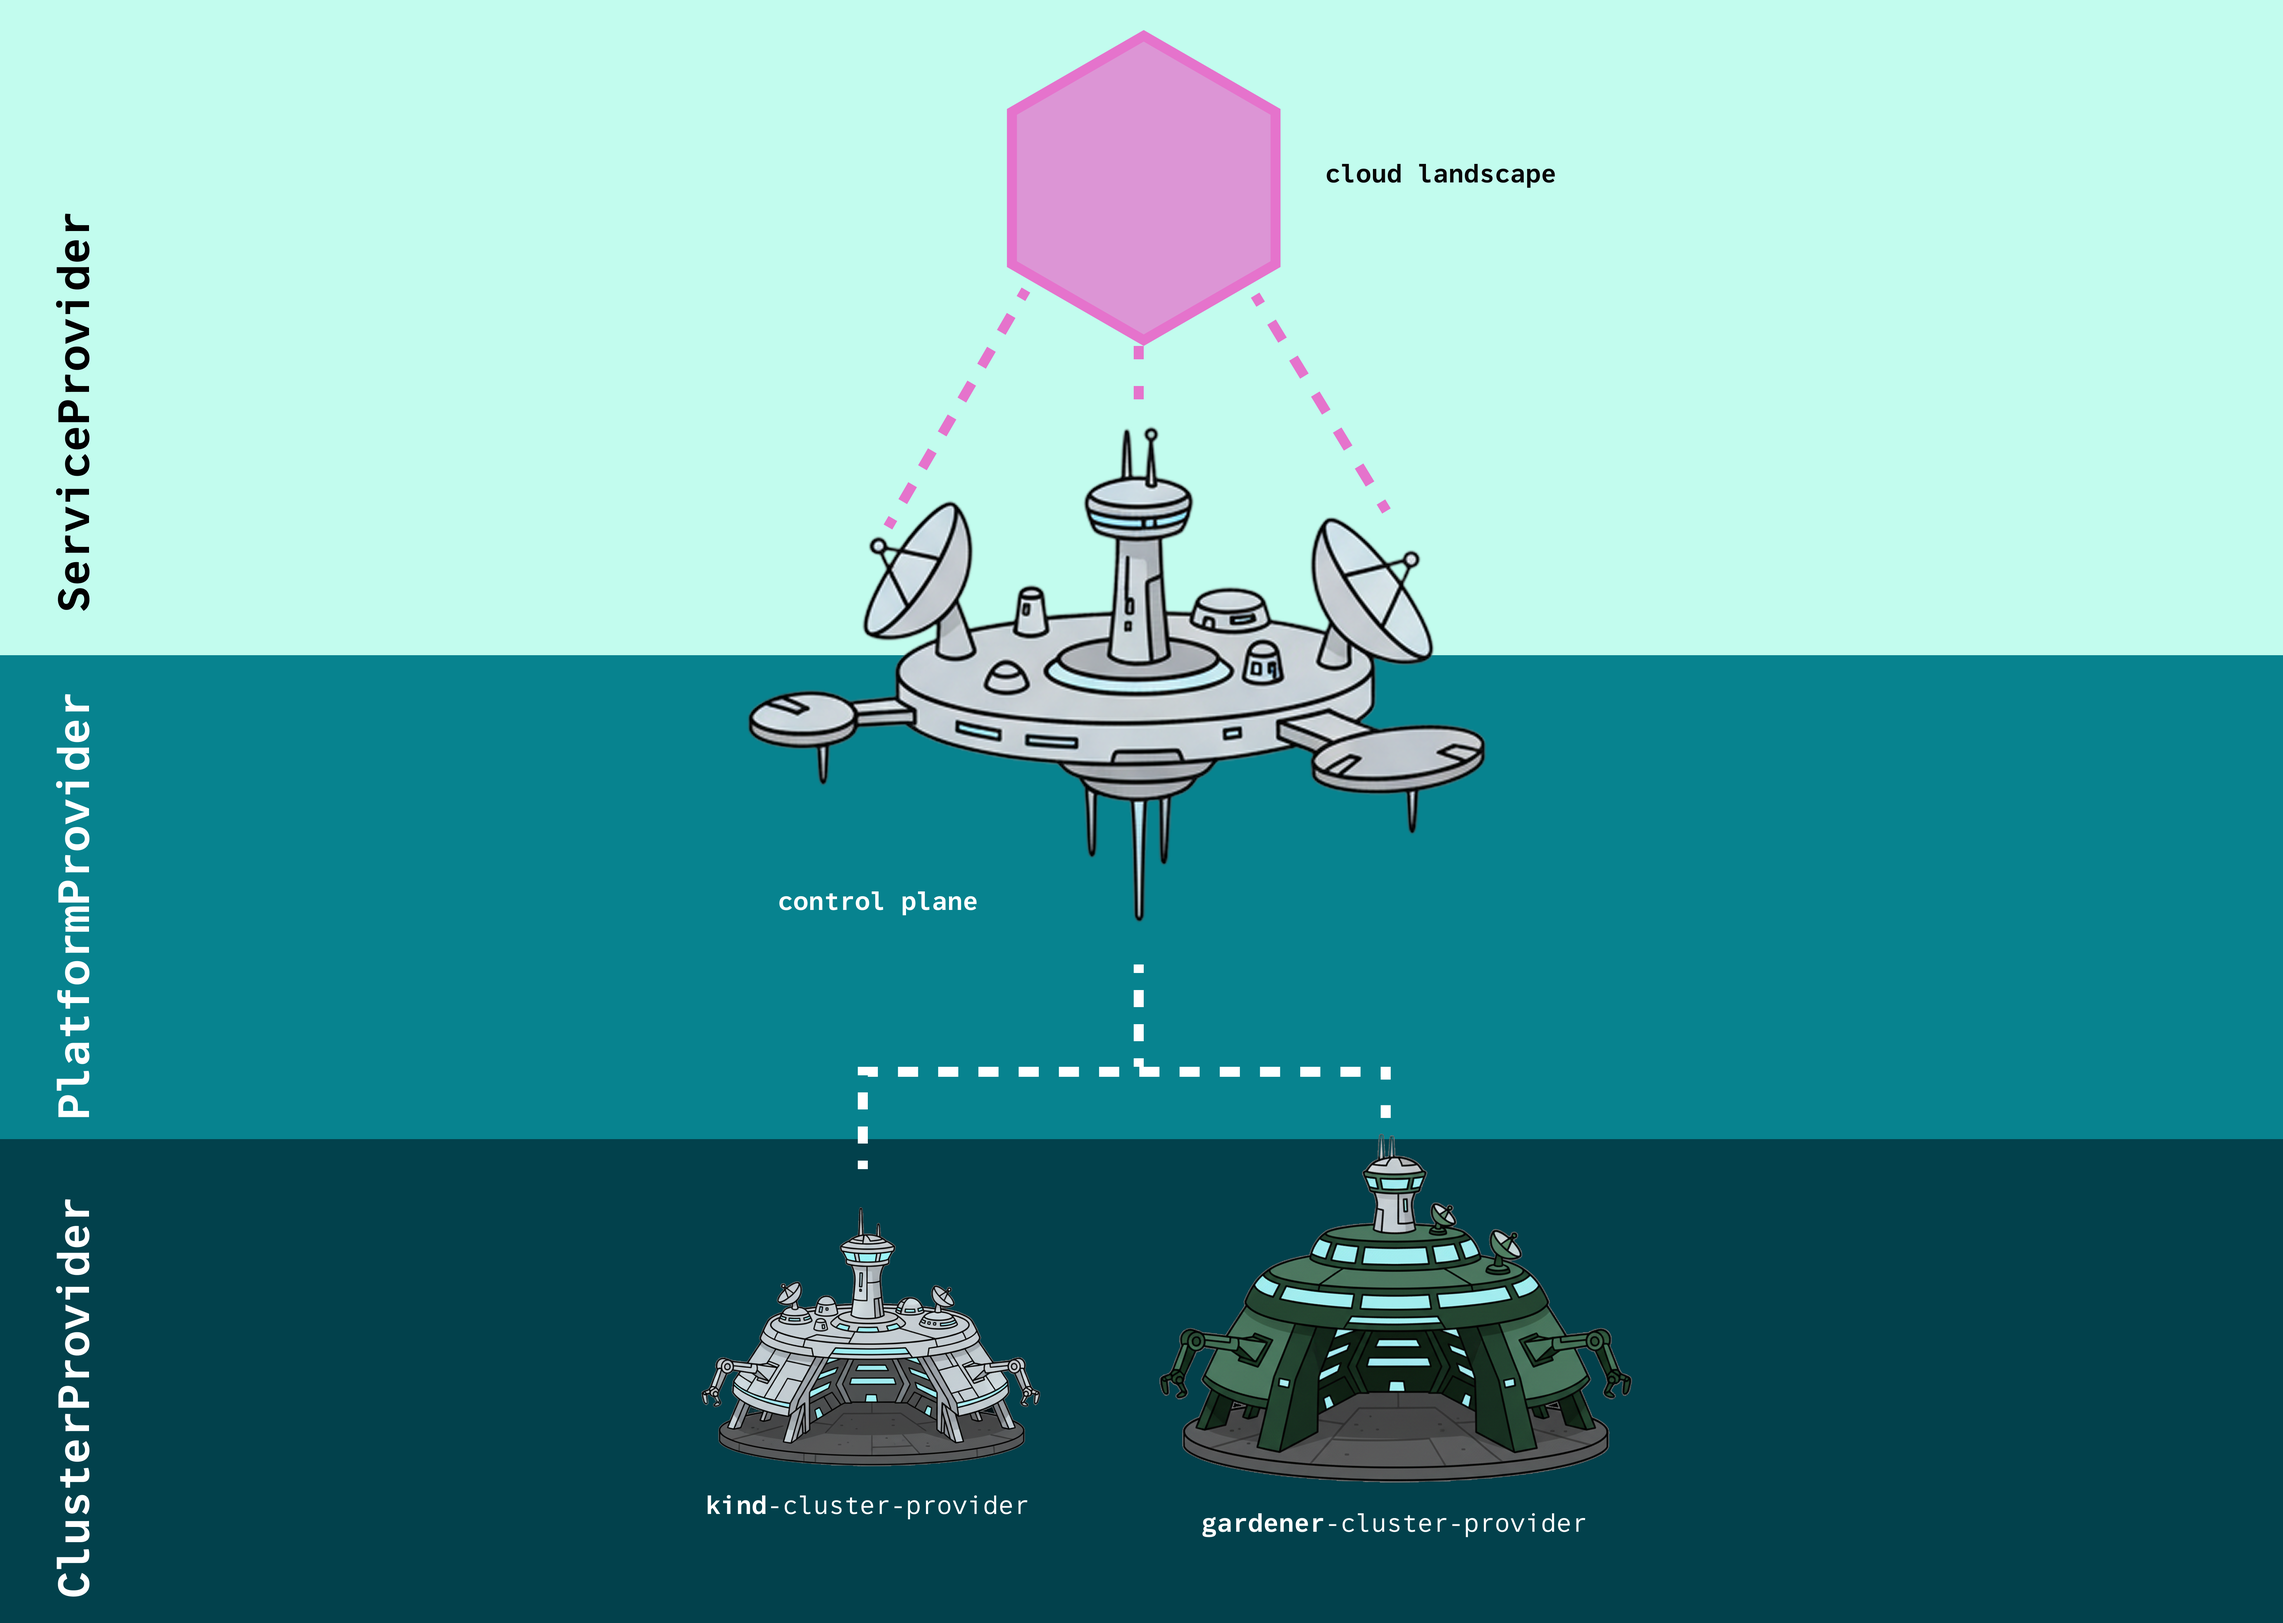
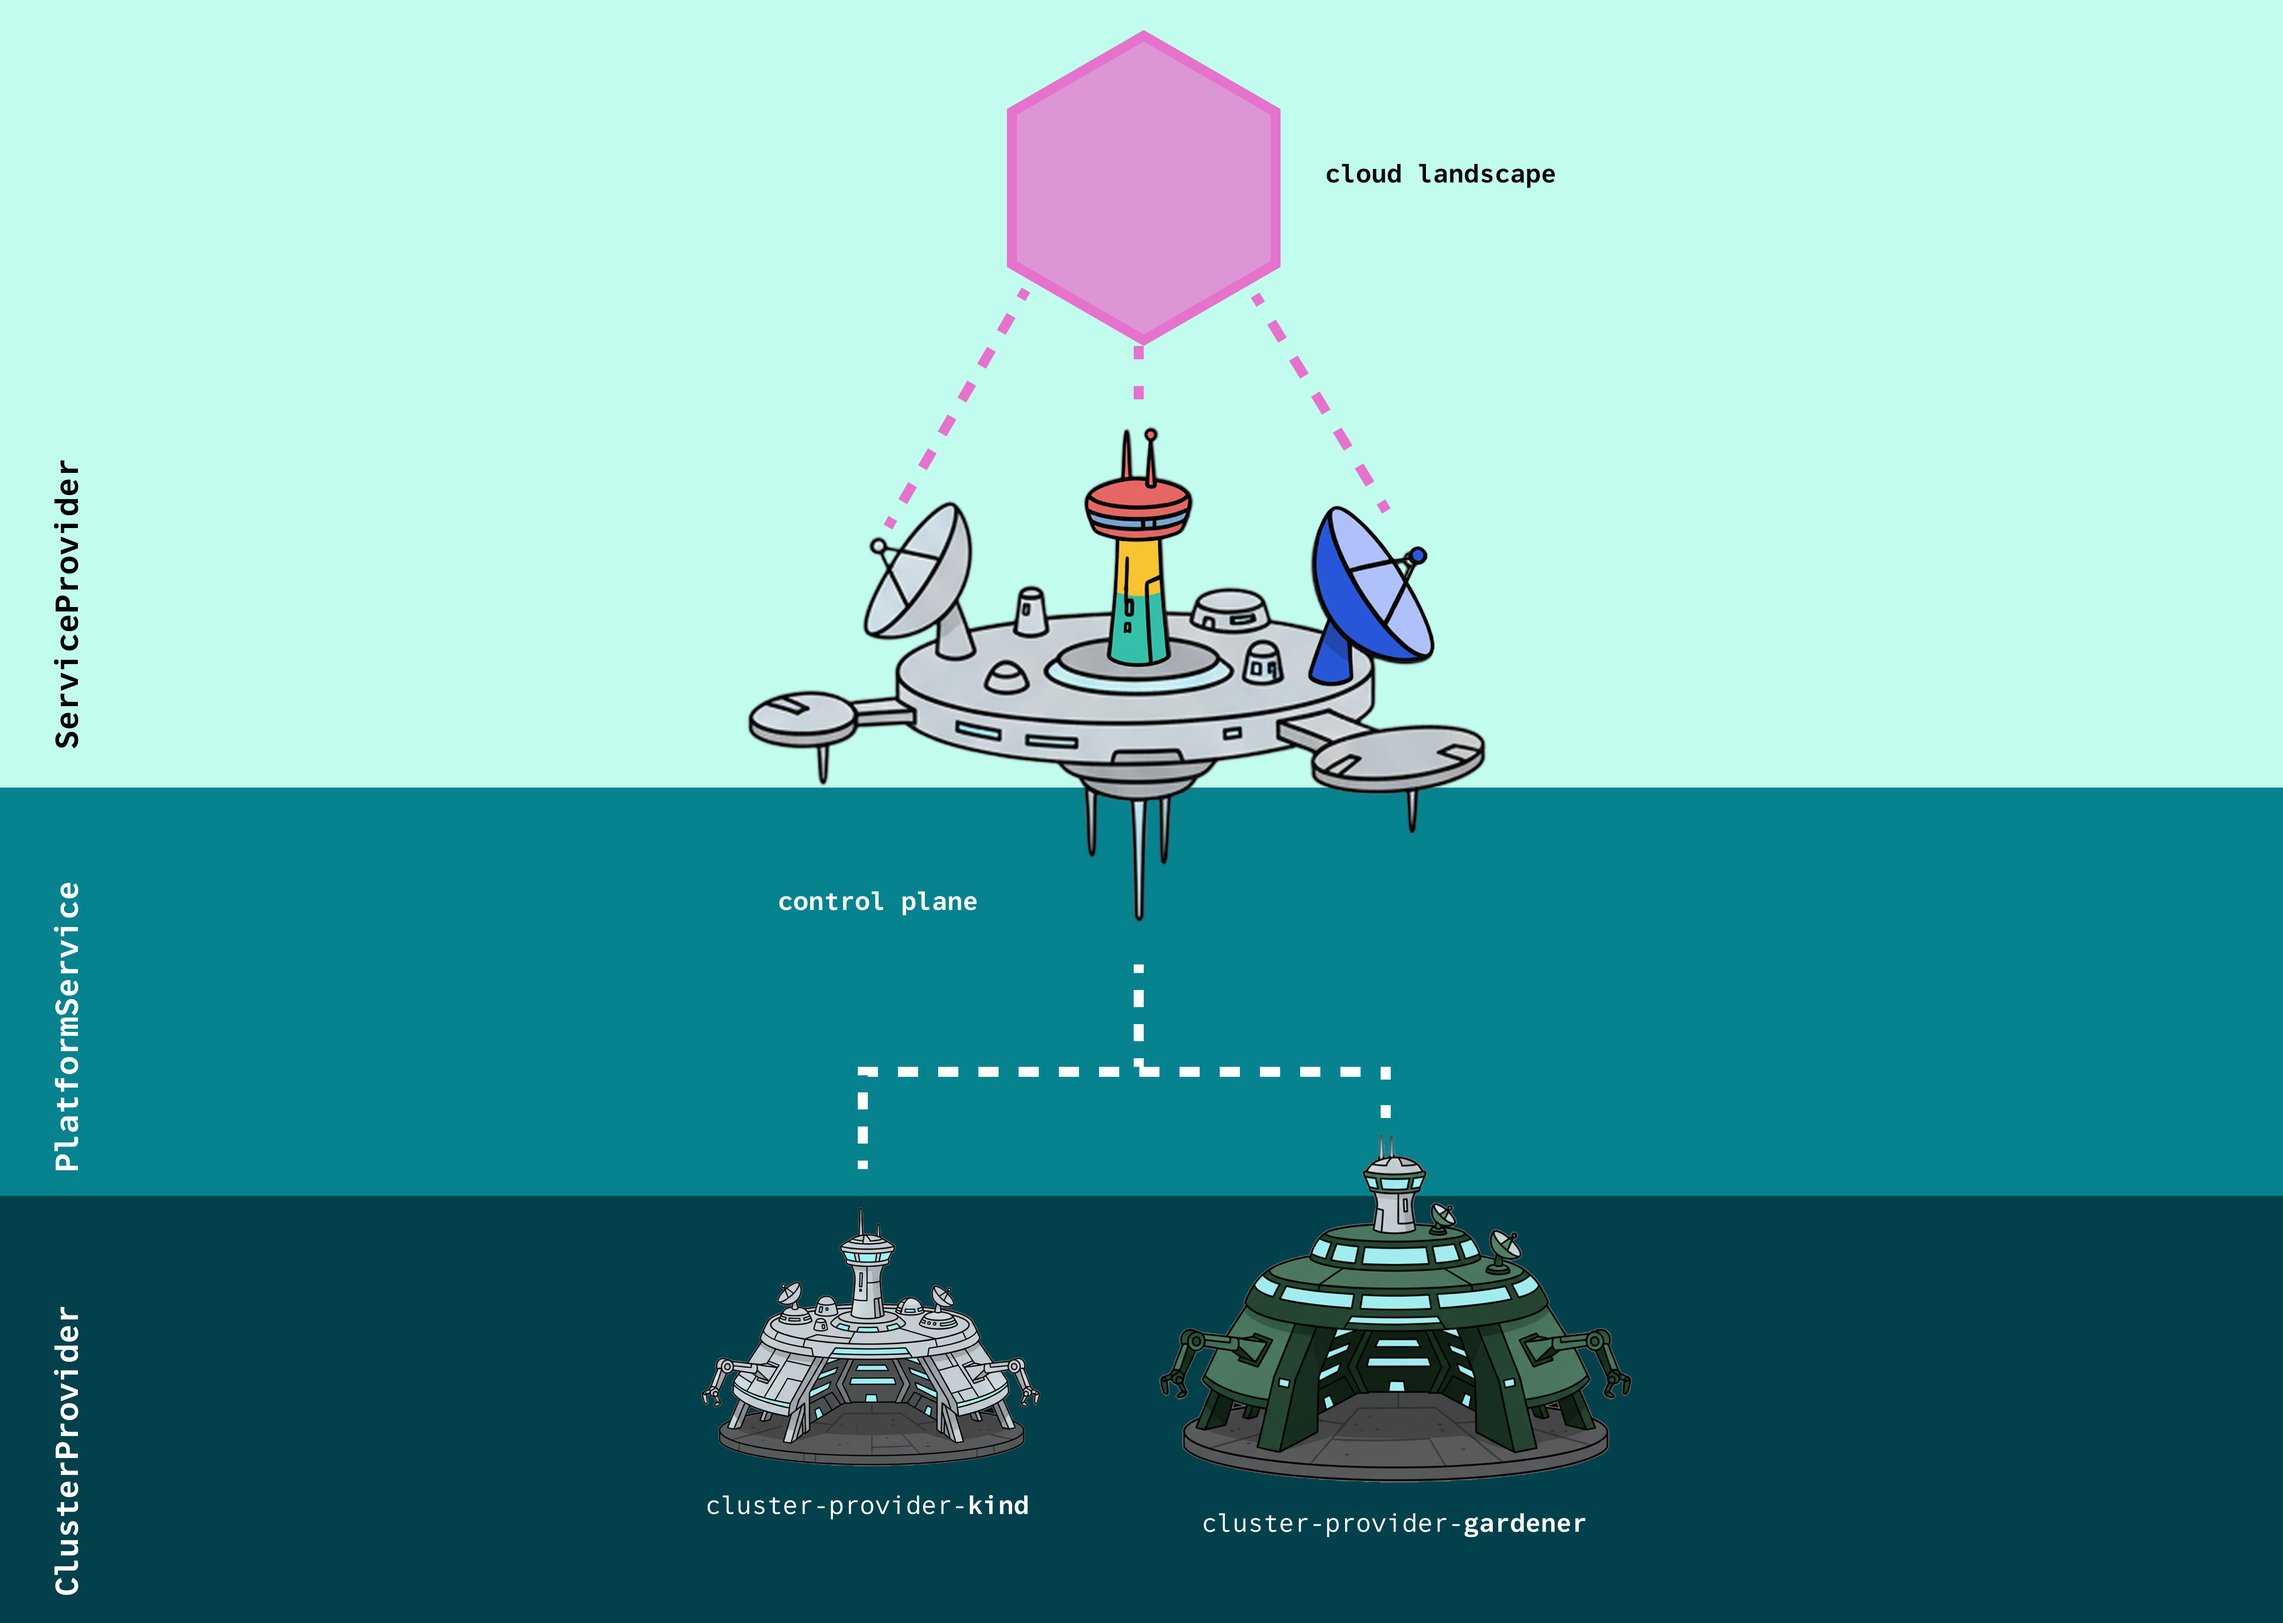
Fixes
- rename PlatformProvider
- remove empty pages

diff --git a/src/pages/index.js b/src/pages/index.js
@@ -54,9 +54,9 @@ export default function Home() {
       // Start when bottom is visible and end when content is still visible
       // We need a range where the visual content (images) is fully in view
 
-      // Start: section top at 40% viewport (content becoming centered)
+      // Start: section top at 70% viewport (triggers earlier when section enters)
       // End: section top at -20% viewport (top exiting but bottom still visible)
-      const startThreshold = windowHeight * 0.4;
+      const startThreshold = windowHeight * 0.7;
       const endThreshold = -windowHeight * 0.2;
 
       // Only track when section is in the active range
@@ -98,9 +98,9 @@ export default function Home() {
 
       const sectionTop = rect.top;
 
-      // Start: section top at 40% viewport (content becoming centered)
+      // Start: section top at 70% viewport (triggers earlier when section enters)
       // End: section top at -20% viewport (top exiting but bottom still visible)
-      const startThreshold = windowHeight * 0.4;
+      const startThreshold = windowHeight * 0.7;
       const endThreshold = -windowHeight * 0.2;
 
       if (sectionTop > startThreshold || sectionTop < endThreshold) {
@@ -140,9 +140,9 @@ export default function Home() {
 
       const sectionTop = rect.top;
 
-      // Start: section top at 40% viewport (content becoming centered)
+      // Start: section top at 70% viewport (triggers earlier when section enters)
       // End: section top at -20% viewport (top exiting but bottom still visible)
-      const startThreshold = windowHeight * 0.4;
+      const startThreshold = windowHeight * 0.7;
       const endThreshold = -windowHeight * 0.2;
 
       if (sectionTop > startThreshold || sectionTop < endThreshold) {
@@ -946,7 +946,7 @@ spec:
               </div>
               <div className="section-header-right-col">
                 <Link className="section-header-cta" to="/operators/overview">Read operator guides →</Link>
-                <Link className="section-header-cta" to="/developers/general">Contribute PlatformProvider →</Link>
+                <Link className="section-header-cta" to="/developers/general">Contribute Platform Services →</Link>
               </div>
             </div>
 
